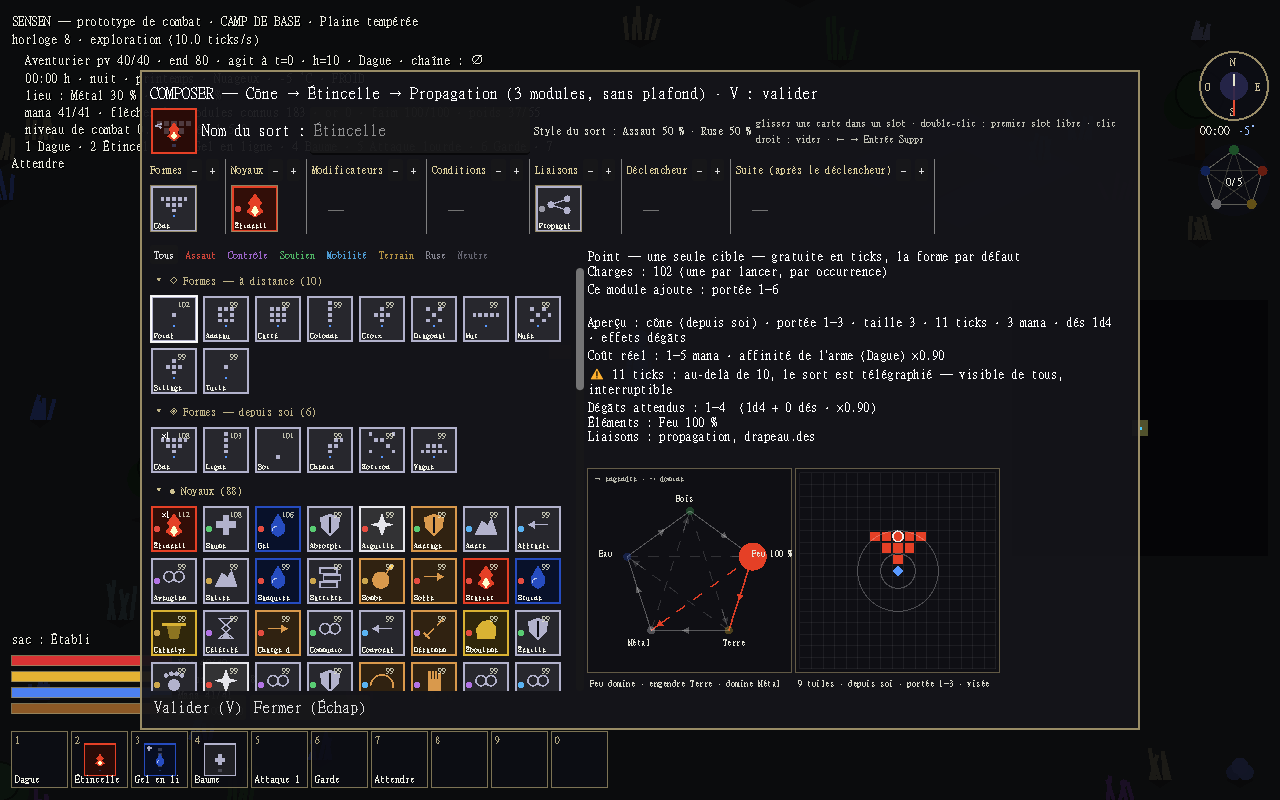
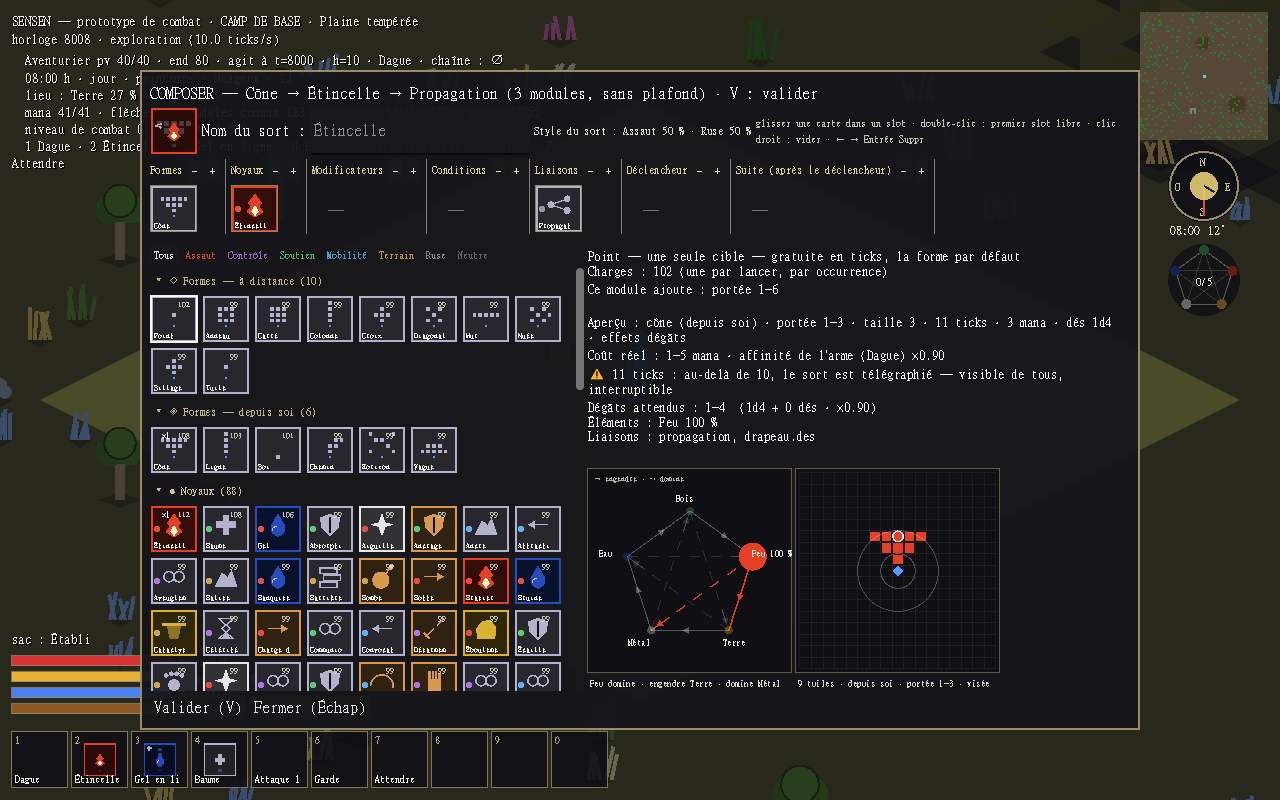
Le loot est assemblé : composants, matériaux de la famille (minerais de l'étage favorisés) et qualité tirés — jamais « une simple épée » ; captures du README reprises après exploration
Points 21 et 22 de la file du designer. Simulation._composer_loot à la génération de tout objet assemblé, _appliquer_composition partagé avec l'atelier, loot_rules.contenants (armes, armures, outils = objets assemblés, boucliers prototypes) et loot_rules.assemblage. capture.tscn : --explorer N (le joueur marche avant la prise, journal et flottants effacés). Test test_loot_assemble ; suite verte (run 126).

Changed region(s): [[0.0, 0.0, 1.0, 1.0]]

diff --git a/docs/00 - Index/Vers la production.md b/docs/00 - Index/Vers la production.md
@@ -55,7 +55,8 @@ etape: 0
 > **Ajout du designer (2026-08-30, 21 h 05)** : 18. **Fait (2026-08-30, 22 h)** — [[Écrans d'interface]]. **Un véritable écran de création du personnage** — visuel du personnage (paperdoll), personnalisation, stats, compétences, kit de départ.
 > **Ajout du designer (2026-08-30, 21 h 05)** : 19. **Fait (2026-08-30, 21 h 25)** — [[Minimap et brouillard de guerre]]. **Minimap** — elle ne représente que la cellule où est le joueur ; deux fois plus petite ; en haut à droite ; compas et Wu Xing en dessous.
 > **Ajout du designer (2026-08-30, 21 h 05)** : 20. **Fait (2026-08-30, 21 h 25)** — [[Cycle jour-nuit et sommeil]], [[Écrans d'interface]]. **Chaque nouvelle partie commence à 8 h du matin** ; **retirer la jauge Wu Xing sous le personnage**.
-> **Ajout du designer (2026-08-30, 22 h 15)** : 21. **Vérifier que le loot soit vraiment aléatoire** — on ne trouve pas « une simple épée » mais une épée au manche en chêne et à la tête en cuivre, de qualité 1,4, etc. : les objets trouvés doivent être des assemblages de composants et de matériaux tirés, avec leur qualité.
+> **Ajout du designer (2026-08-30, 22 h 15)** : 21. **Fait (2026-08-30, 22 h 40)** — c'était faux (prototypes) ; [[Loot — affixes, gemmes et rareté]]. **Vérifier que le loot soit vraiment aléatoire** — on ne trouve pas « une simple épée » mais une épée au manche en chêne et à la tête en cuivre, de qualité 1,4, etc. : les objets trouvés doivent être des assemblages de composants et de matériaux tirés, avec leur qualité.
+> **Ajout du designer (2026-08-30, 22 h 20)** : 22. **Fait (2026-08-30, 22 h 55)** — sept captures reprises ; le donjon et le combat après exploration (`capture.tscn -- --explorer N`, demande du designer). **Refaire les captures d'écran du README** après les changements d'interface (minimap, HUD, création, blocs).
 > **Ajout du designer (2026-08-30, 17 h 40)** : 15. **Codé le 2026-08-30** — ~~Supprimer totalement la timeline graphique~~, et ~~supprimer complètement les tours et l'ordre de passage~~ ([[Boucle de tick]]) : plusieurs PNJ peuvent agir **en même temps**, le joueur et un ennemi peuvent attaquer **exactement au même tick** (résolution simultanée des actions dues au même tick — les deux coups portent, même si l'un tue l'autre ; plus d'ordre d'itération qui départage). À faire **avant** le dungeon crawling (13), puisque ça retire quelque chose qui vient d'être posé.
 > **Ajout du designer (2026-08-30, 17 h 45)** : 16. **Codé le 2026-08-30** ([[Génération de donjon]]) — ~~Des portes~~ pour les **bâtiments des villes** et **certaines salles des donjons** : une porte se ferme (bloque le passage et la vue) et s'ouvre (par le joueur et les PNJ, à l'interaction ou en passant), se pose dans les plans de bâtiments (le `P` des grilles) et dans le générateur de donjon (à l'entrée de certaines salles, fermées, éventuellement à défoncer) ; en données (contenu de tuile `porte` ouvert / fermé, matériau, dureté). À faire après 15, avant l'essai du dungeon crawling (13).
 > **État au 2026-08-30 (soir)** : 1 à 4, 6 et 7 codés et poussés (HUD, molette, 64 × 64, écran de chargement, police MingLiU-ExtB, écran principal). Le 5 attend une **réponse du designer** : lever ou non l'interdiction de GDExtension dans *Contraintes permanentes*, et pour quels systèmes. Aucun profil ne montre aujourd'hui un chemin chaud hors budget (cellule 64 × 64 < 100 ms, étage < 60 ms, pas de combat < 1 ms) ; la règle des notes est « décision au profilage, pas avant ». Sans réponse, rien n'est réécrit.

diff --git a/docs/05 - Objets/Loot — affixes, gemmes et rareté.md b/docs/05 - Objets/Loot — affixes, gemmes et rareté.md
@@ -111,6 +111,9 @@ L'atelier consomme ce que le donjon fournit — jamais l'inverse.
 > [!success] Corrigé le 2026-08-29 — le loot tirait dans huit listes d'ids
 > Même défaut que les boutiques : `loot_rules.contenants` portait `bases_armes`, `bases_armures`, `bases_gemmes`… — huit listes à tenir à la main, et deux implémentations copiées (`Loot._base_pour`, `Donjon._base_aleatoire`). Devenu `categories: {armes: {poids, filtre}, …}` : le poids de la catégorie et le **filtre** qui la définit. Toute arme de prototype ajoutée au jeu entre dans les coffres **le jour où elle existe**. **Décisions** : les doublons de pondération des anciennes listes (grimoire deux fois, fiole de soin deux fois) disparaissent — un filtre est un ensemble, la pondération se fait au niveau de la catégorie ; les boucliers rejoignent les armures ; la torche rejoint les outils (`tags_any: [prototype, lumiere]`) ; parties de bête, âmes et spécimens sont exclus des consommables lootables (`tags_none`).
 
+> [!success] Décidé et codé le 2026-08-30 — le loot assemblé : jamais « une simple épée »
+> **Instruction du designer** : « vérifier que le loot soit vraiment aléatoire — on ne loot pas une simple épée, on peut looter une épée avec un manche en chêne et une tête en cuivre de qualité 1,4 ». Vérifié : c'était faux — les coffres et les drops tiraient les **prototypes** (`proto_epee`, fer, sans composants ni qualité). Désormais `loot_rules.contenants.categories` : armes, armures et outils tirent les objets **assemblés** (`tags assemble` : `craft_*`), les boucliers (sans version assemblée) gardent leur prototype ; la torche reste dans les outils. À la génération (`Simulation._composer_loot`), chaque **slot** de l'objet (tête, manche, fixations ; plaque, sangles, fixations) reçoit une **recette de composant** tirée (donc une famille de matériau), un **matériau** de la famille — les minerais des étages ≤ profondeur pèsent `assemblage.poids_etage` (3) fois plus : du cuivre à l'étage 1, du fer à 2, de l'or à 3… — et une **qualité** tirée comme un artisan de niveau `niveau_base + niveau_par_profondeur × profondeur` (8 + 6/étage) ; le jet d'assemblage est borné comme à l'atelier. Le calcul des stats est **partagé** avec `_assembler` (`_appliquer_composition`) : Σ stat × poids, dureté avant qualité, Wu Xing composite, matériau de la tête, vitesse du manche. Le nom suit : « Épée en cuivre (correct 1,12) », l'infobulle liste les composants. Test : `test_loot_assemble`.
+
 ## Liens
 - **Dépend de** : [[Effets d'équipement passifs]], [[Qualité d'artisanat]], [[Génération de donjon]], [[Modificateurs d'affinité]]
 - **Alimente** : [[Trésors et artefacts]], [[Monstres rares]], [[Équipement — 14 slots]], [[Jauge de chaîne Wu Xing]], [[Cinq accès au cycle]]
